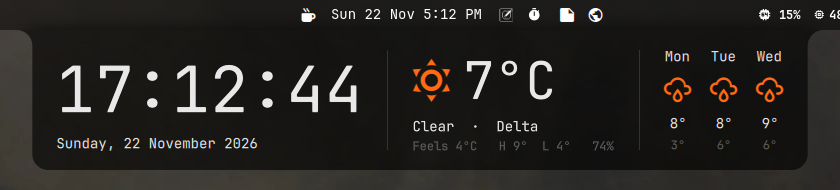
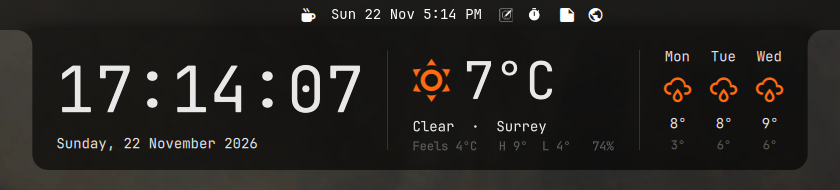
Follow the bar's background from shell.json directly
The bar config the shell hands to plugins is a snapshot that a shell.json
edit does not always refresh; one caught mid-write left the card stuck on
the opaque look. Read and watch shell.json instead, keeping the last good
look when the file fails to parse. Retake the README screenshot without
the CPU widget at its edge.

diff --git a/Service.qml b/Service.qml
@@ -232,6 +232,26 @@ Item {
     onTriggered: root.now = new Date()
   }
 
+  // The bar's background look (opaque, glassy or none), read straight from
+  // shell.json and watched, so the card follows it live. The shell's copy of
+  // the bar config handed to plugins is a snapshot that a shell.json edit
+  // does not always refresh. A file that fails to parse (caught mid-write)
+  // keeps the last good look.
+  property string barLook: "opaque"
+  FileView {
+    path: (Quickshell.env("XDG_CONFIG_HOME") || Quickshell.env("HOME") + "/.config") + "/omarchy/shell.json"
+    watchChanges: true
+    printErrors: false
+    onFileChanged: reload()
+    onLoaded: {
+      try {
+        var bar = JSON.parse(text()).bar || {}
+        var look = bar.background || (bar.transparent === true ? "none" : "opaque")
+        root.barLook = ["opaque", "glassy", "none"].indexOf(look) >= 0 ? look : "opaque"
+      } catch (e) {}
+    }
+  }
+
   FileView {
     id: stateFile
     path: root.statePath
@@ -307,12 +327,11 @@ Item {
         readonly property bool docked: root.posY < 0 && win.barSize > 0
         radius: 16
         // Same fill as the bar: opaque, glassy (see-through) or clear, from
-        // bar.background in shell.json and the theme's bar color, worked out
-        // the way the bar does it. Updates live with the theme and the bar.
+        // bar.background in shell.json (barLook) and the theme's bar color,
+        // worked out the way the bar does it. Updates live.
         color: docked ? "transparent" : fill
         property color fill: {
-          var config = root.shell && root.shell.barConfig ? root.shell.barConfig : ({})
-          var look = config.background || (config.transparent === true ? "none" : "opaque")
+          var look = root.barLook
           var bg = Commons.Color.bar.background
           if (look === "none") return "transparent"
           // Darker than the bar's 0.35 (0.62): the bar is also blurred (which darkens
